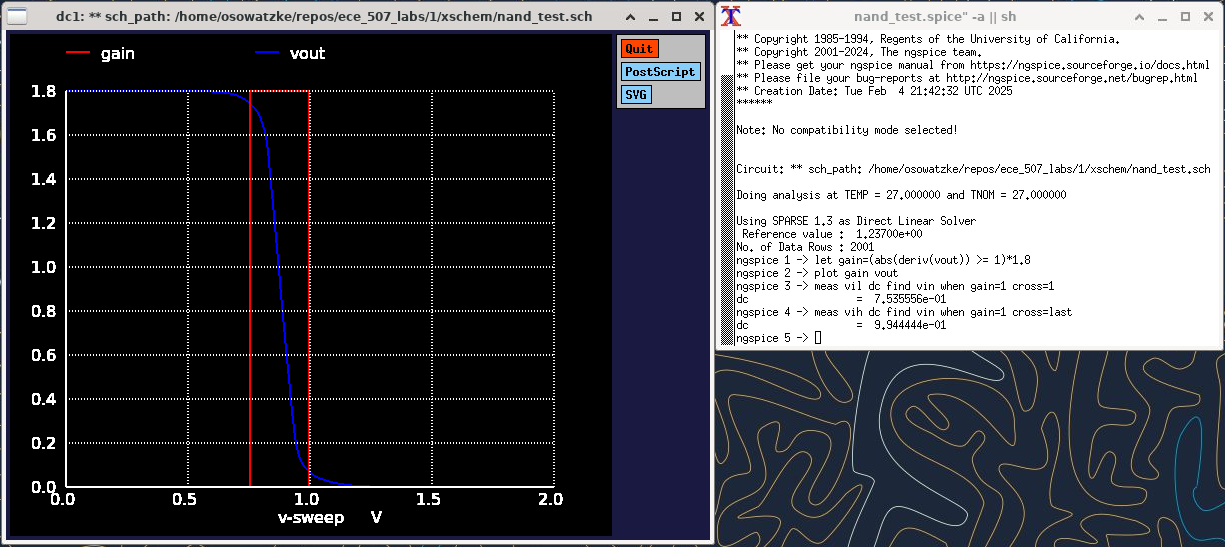
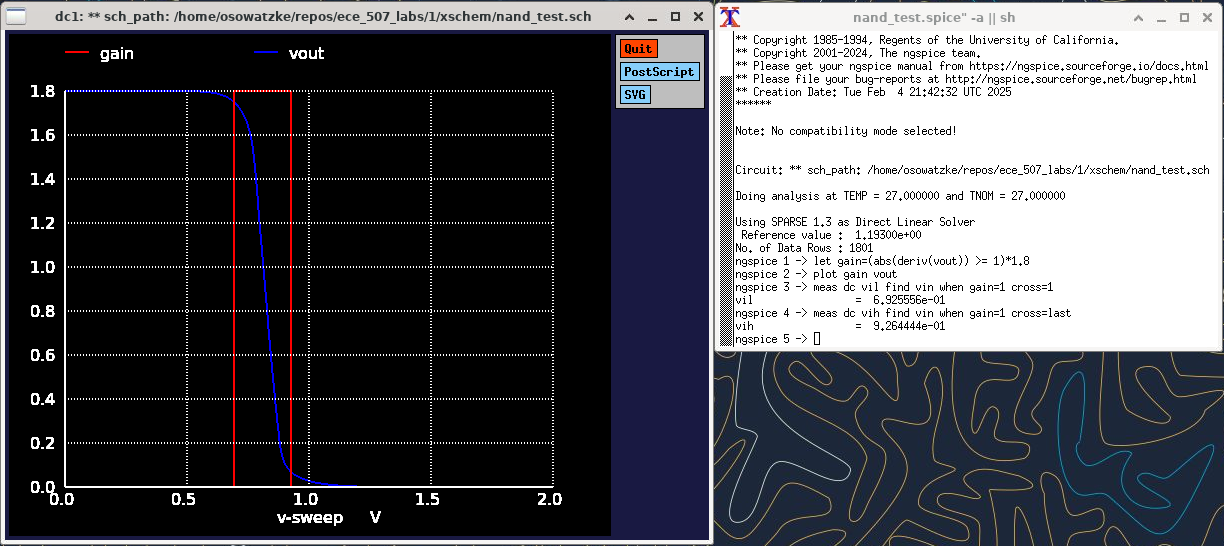
Capturing noise analysis results

diff --git a/1/lab_report.tex b/1/lab_report.tex
@@ -258,41 +258,44 @@
 	\subsubsection{Noise Analysis}
 	\label{section::nand_noise_analysis}
 	
-	Using the test circuits shown in Figures \ref{fig::nand_vtc_test_sweep_va}, \ref{fig::nand_vtc_test_sweep_vb}, and \ref{fig::nand_vtc_test_sweep_va_vb}, we perform noise analysis. We specifically use the test circuits to measure the noise margins, which are defined follows:
+	Using the test circuit shown in Figure \ref{fig::nand_vtc_test_sweep_va}, we can also measure the noise margins, which are defined follows:
 	
 	\begin{equation}
-		NM_H = V_{DD} - V_{IH}
+		NM_H = V_{OH} - V_{IH}
 		\label{eq::noise_margin_high}
 	\end{equation}
 	
 	\begin{equation}
-		NM_L = V_{IL} - GND
+		NM_L = V_{IL} - V_{OL}
 		\label{eq::noise_margin_low}
 	\end{equation}
 	
-	In the above formulas, $V_{IH}$ and $V_{IL}$ are defined as the unity points of the gain function, where the gain is defined as the derivative of the VTC. For the case in which we only vary the input \texttt{a}, we can identify the unity gain points and the corresponding noise margins as follows:
+	In the above formulas, $V_{IH}$ and $V_{IL}$ are defined as the unity points of the gain function, where the gain is defined as the derivative of the VTC. For the case in which we vary \texttt{a} with \texttt{b=1}, we can identify the unity gain points and solve for the noise margins.
 	
 	\begin{figure}[H]
 		\centerline{\includegraphics[width=0.8\textwidth]{nand_noise_analysis_sweep_va.png}}
-		\caption{Measuring \texttt{Vil} for the NAND Gate when Input Variations are Limited to Input \texttt{a}}
-		\label{fig::nand_noise_analysis_sweep_va}
+		\caption{Measuring Noise Margins for the NAND Gate when \texttt{a} is Varied and \texttt{b=1}}	\label{fig::nand_noise_analysis_sweep_va}
 	\end{figure}
 	
-	Examining the ngspice outputs, we find that \texttt{Vil = 0.7536 V} and \texttt{Vih = 0.9944 V}. This implies that \texttt{Nmh = 1.8 V - 0.9944 V = 0.8056 V} and \texttt{Nml = 0.7536 V}. We can repeat this analysis for independent variations of input \texttt{a} and for joint variations of inputs \texttt{a} and \texttt{b}. The ngspice outputs for this analysis are included in Figure \ref{fig::nand_noise_analysis_sweep_vb} and \ref{fig::nand_noise_analysis_sweep_va_vb}.
+	Examining the outputs shown in Figure \ref{fig::nand_noise_analysis_sweep_va}, we find that \texttt{Vil = 0.6926 V} and \texttt{Vih = 0.9264 V}. This implies that \texttt{Nmh = 1.8 V - 0.9264 V = 0.8736 V} and \texttt{Nml = 0.6926 V - 0 V = 0.6926 V}. With slight modifications to the test circuit, we can measure the noise margins for the sets of inputs listed in Table \ref{table::nand_gate_high_to_low_transitions}. Our results for this analysis are listed in Table \ref{table::nand_gate_noise_analysis}.
 	
-	\begin{figure}[H]
-		\centerline{\includegraphics[width=0.8\textwidth]{nand_noise_analysis_sweep_vb.png}}
-		\caption{Measuring \texttt{Vil} for the NAND Gate when Input Variations are Limited to Input \texttt{b}}
-		\label{fig::nand_noise_analysis_sweep_vb}
-	\end{figure}
-	
-	\begin{figure}[H]
-		\centerline{\includegraphics[width=0.8\textwidth]{nand_noise_analysis_sweep_va_vb.png}}
-		\caption{Measuring \texttt{Vil} for the NAND Gate when Inputs \texttt{a} and \texttt{b} are Varied Together}
-		\label{fig::nand_noise_analysis_sweep_va_vb}
-	\end{figure}
-	
-	Examining the outputs, we find that the noise margins are defined as \texttt{Nmh = 0.8146 V} and \texttt{Nml = 0.7706 V} when input variations are limited to input \texttt{b}. When we vary the inputs \texttt{a} and \texttt{b} in unison, we find that the noise margins are \texttt{Nmh = 0.7126 V} and \texttt{Nml = 0.8596 V}.
+	\begin{table}[H]
+	\begin{center}
+	\caption{Noise Margins for Each Set of Inputs That Result in an Output Logic Level Change}
+	\label{table::nand_gate_noise_analysis}
+	\begin{tabular}{| c | c | c | c | c | c |}
+		\hline
+		\texttt{a} & \texttt{b} & \texttt{Vih} & \texttt{Vil} & \texttt{Nmh} & \texttt{Nml} \\
+		\hline	
+		$0 \rightarrow 1$ & $1$ & $0.9264 \text{V}$ & $0.6926 \text{V}$ & $0.8736 \text{V}$ & $0.6926 \text{V}$\\
+		\hline	
+		$1$ & $0 \rightarrow 1$ & $0.9184 \text{V}$ & $0.7116 \text{V}$ & $0.8816 \text{V}$ & $0.7116 \text{V}$\\
+		\hline	
+		$0 \rightarrow 1$ & $0 \rightarrow 1$ & $1.0224 \text{V}$ & $0.8046 \text{V}$ & $0.7776 \text{V}$ & $0.8046 \text{V}$\\
+		\hline
+	\end{tabular}
+	\end{center}
+	\end{table}
 	
 	\subsubsection{Delay Analysis}
 	
